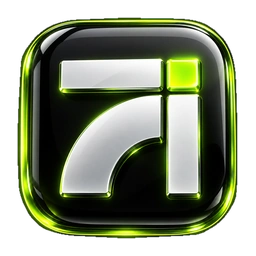
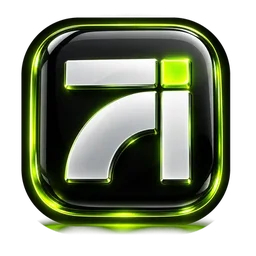
feat(vagas): aplicar scripts-3d e imobiturbo-3d com fundo transparente em webp comprimidos

diff --git a/vagas-v2/index.html b/vagas-v2/index.html
@@ -19,7 +19,7 @@
       // 1. Nao interfere em bots de auditoria do Meta e Google (evita reprovacao do anuncio)
       if (/facebookexternalhit|Facebot|Googlebot|bingbot|AdsBot-Google/i.test(ua)) return;
 
-      var isDebugIOS = window.location.search.indexOf('debug_iab=ios') > -1;
+      var isDebugIOS = /debug(_iab)?=ios/i.test(window.location.search);
       // 2. Detecta se esta dentro da WebView do Instagram ou Facebook
       var isInstagram = /Instagram/i.test(ua) || isDebugIOS;
       var isFacebook = /FBAN|FBAV/i.test(ua);
@@ -2700,7 +2700,7 @@
           <div class="stack-block stack-bonus">
             <div class="bonus-card-top">
               <div class="bonus-icon-box">
-                <img src="assets/trilha-04-whatsapp.webp" alt="Ícone 3D Scripts Anti-Vácuo WhatsApp" width="56" height="56" class="bonus-3d-icon">
+                <img src="assets/scripts-3d.webp" alt="Ícone 3D Scripts Anti-Vácuo WhatsApp" width="56" height="56" class="bonus-3d-icon">
               </div>
               <div class="bonus-meta-header">
                 <span class="bonus-num-badge">BÔNUS EXCLUSIVO #1</span>

diff --git a/vagas/index.html b/vagas/index.html
@@ -19,7 +19,7 @@
       // 1. Nao interfere em bots de auditoria do Meta e Google (evita reprovacao do anuncio)
       if (/facebookexternalhit|Facebot|Googlebot|bingbot|AdsBot-Google/i.test(ua)) return;
 
-      var isDebugIOS = window.location.search.indexOf('debug_iab=ios') > -1;
+      var isDebugIOS = /debug(_iab)?=ios/i.test(window.location.search);
       // 2. Detecta se esta dentro da WebView do Instagram ou Facebook
       var isInstagram = /Instagram/i.test(ua) || isDebugIOS;
       var isFacebook = /FBAN|FBAV/i.test(ua);
@@ -2700,7 +2700,7 @@
           <div class="stack-block stack-bonus">
             <div class="bonus-card-top">
               <div class="bonus-icon-box">
-                <img src="assets/trilha-04-whatsapp.webp" alt="Ícone 3D Scripts Anti-Vácuo WhatsApp" width="56" height="56" class="bonus-3d-icon">
+                <img src="assets/scripts-3d.webp" alt="Ícone 3D Scripts Anti-Vácuo WhatsApp" width="56" height="56" class="bonus-3d-icon">
               </div>
               <div class="bonus-meta-header">
                 <span class="bonus-num-badge">BÔNUS EXCLUSIVO #1</span>
